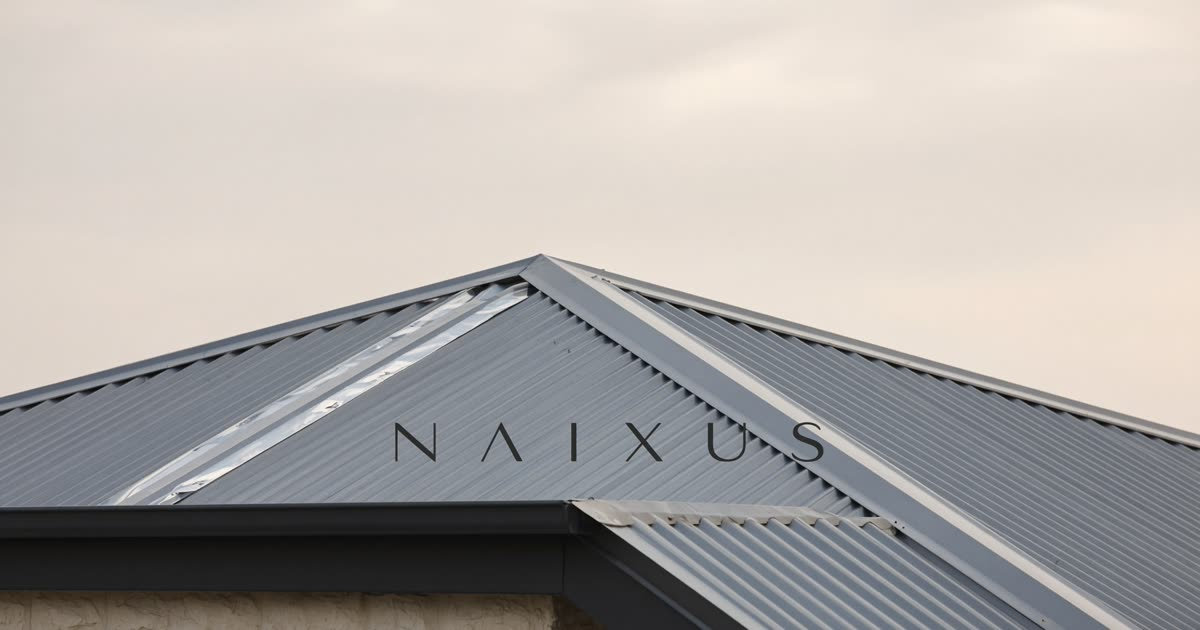
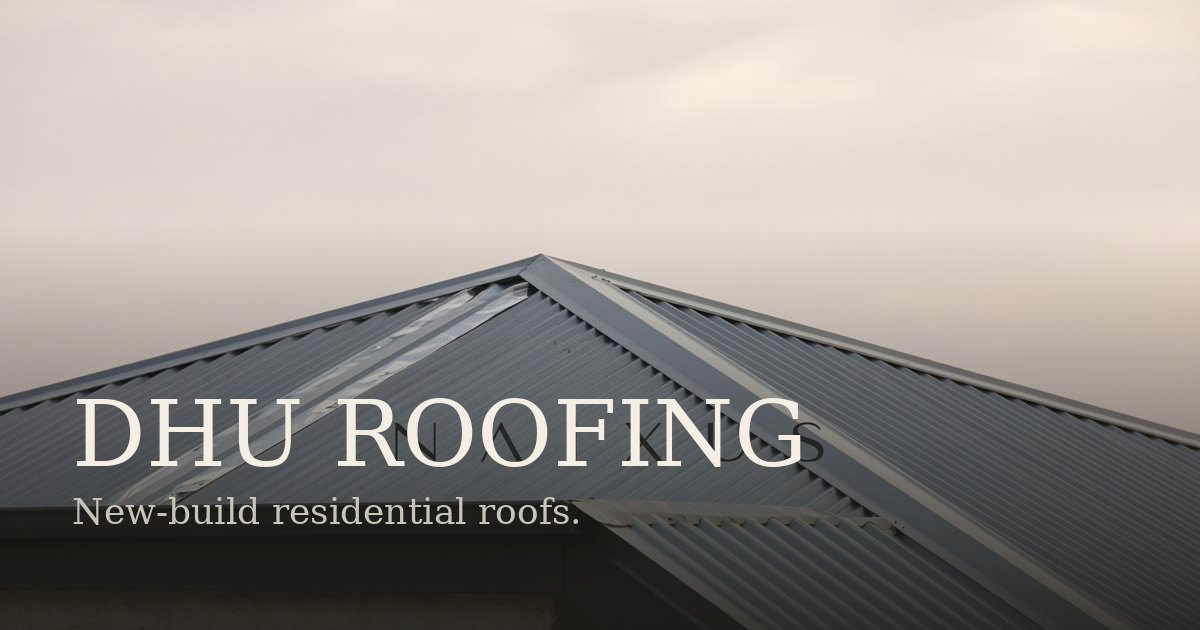
Make Dhu Roofing the name on every surface.
Header, hero, enquire, share card and schema all use Dhu Roofing.
The live hostname is still naixus-roof-technicians.vercel.app until a .com.au is pointed.

diff --git a/src/components/home/hero.tsx b/src/components/home/hero.tsx
@@ -19,12 +19,10 @@ export function Hero() {
       <div className="absolute inset-0 bg-gradient-to-t from-ink via-ink/55 to-ink/15" />
       <div className="relative mx-auto flex min-h-[82vh] max-w-6xl flex-col justify-end px-5 pb-10 pt-28 sm:px-8 sm:pb-14">
         <p className="text-[0.7rem] font-medium uppercase tracking-[0.28em] text-paper/75">
-          {business.operator} · {business.base}
+          {business.name} · {business.base}
         </p>
         <h1 className="mt-5 max-w-3xl font-display text-[2.7rem] font-medium leading-[1.04] tracking-[-0.03em] sm:text-6xl md:text-7xl">
-          New-build
-          <br />
-          residential roofs.
+          {business.tagline.replace(/\.$/, "")}.
         </h1>
         <p className="mt-6 max-w-md font-display text-xl text-paper/90 sm:text-2xl">
           {business.promise}

diff --git a/src/components/site-header.tsx b/src/components/site-header.tsx
@@ -32,12 +32,11 @@ export function SiteHeader() {
         >
           <Mark className="text-metal" />
           <span className="leading-tight">
-            <span className="block font-sans text-[0.7rem] font-medium uppercase tracking-[0.28em]">
-              {business.short}
+            <span className="block font-sans text-[0.7rem] font-medium uppercase tracking-[0.22em]">
+              Dhu Roofing
             </span>
             <span className="block text-[0.625rem] uppercase tracking-[0.16em] text-stone">
-              Roofing
-              <span className="hidden sm:inline"> · Keysbrook</span>
+              Keysbrook, WA
             </span>
           </span>
         </Link>

diff --git a/src/lib/seo.ts b/src/lib/seo.ts
@@ -23,7 +23,8 @@ export function rootHead() {
       { name: "description", content: defaultDescription },
       { name: "theme-color", content: "#3e4a51" },
       { name: "robots", content: "index, follow" },
-      { name: "author", content: business.operator },
+      { name: "application-name", content: business.name },
+      { name: "apple-mobile-web-app-title", content: business.name },
       { name: "geo.region", content: "AU-WA" },
       { name: "geo.placename", content: "Keysbrook" },
       { name: "geo.position", content: "-32.433;115.983" },

diff --git a/src/routes/enquire.tsx b/src/routes/enquire.tsx
@@ -29,7 +29,7 @@ function EnquirePage() {
       <main id="main" className="mx-auto grid max-w-6xl gap-12 px-5 py-16 sm:px-8 lg:grid-cols-12 lg:py-24">
         <div className="lg:col-span-5">
           <p className="text-[0.7rem] font-medium uppercase tracking-[0.22em] text-metal">
-            Enquire
+            {business.name}
           </p>
           <h1 className="mt-3 font-display text-4xl font-medium tracking-[-0.02em] sm:text-5xl">
             New-build residential.

diff --git a/src/routes/index.tsx b/src/routes/index.tsx
@@ -17,6 +17,8 @@ const jsonLd = {
   "@context": "https://schema.org",
   "@type": "RoofingContractor",
   name: business.name,
+  alternateName: ["Dhu Roofing Keysbrook", "Shawn Dhu Roofing"],
+  brand: { "@type": "Brand", name: business.name },
   url: SITE_URL,
   description: bio,
   image: absUrl("/og.jpg"),

diff --git a/README.md b/README.md
@@ -1,5 +1,7 @@
 # Dhu Roofing
 
-New-build residential roofing — sarking to ridge capping — Peel corridor. Keysbrook based. Limited books.
+New-build residential roofs. Keysbrook, Serpentine, Jarrahdale, Armadale and the Peel corridor.
 
-Service area: Serpentine–Jarrahdale, Armadale, Peel. Not Bunbury / Busselton / Margaret River.
+Clean work. On time. Fair price.
+
+Live: https://naixus-roof-technicians.vercel.app
